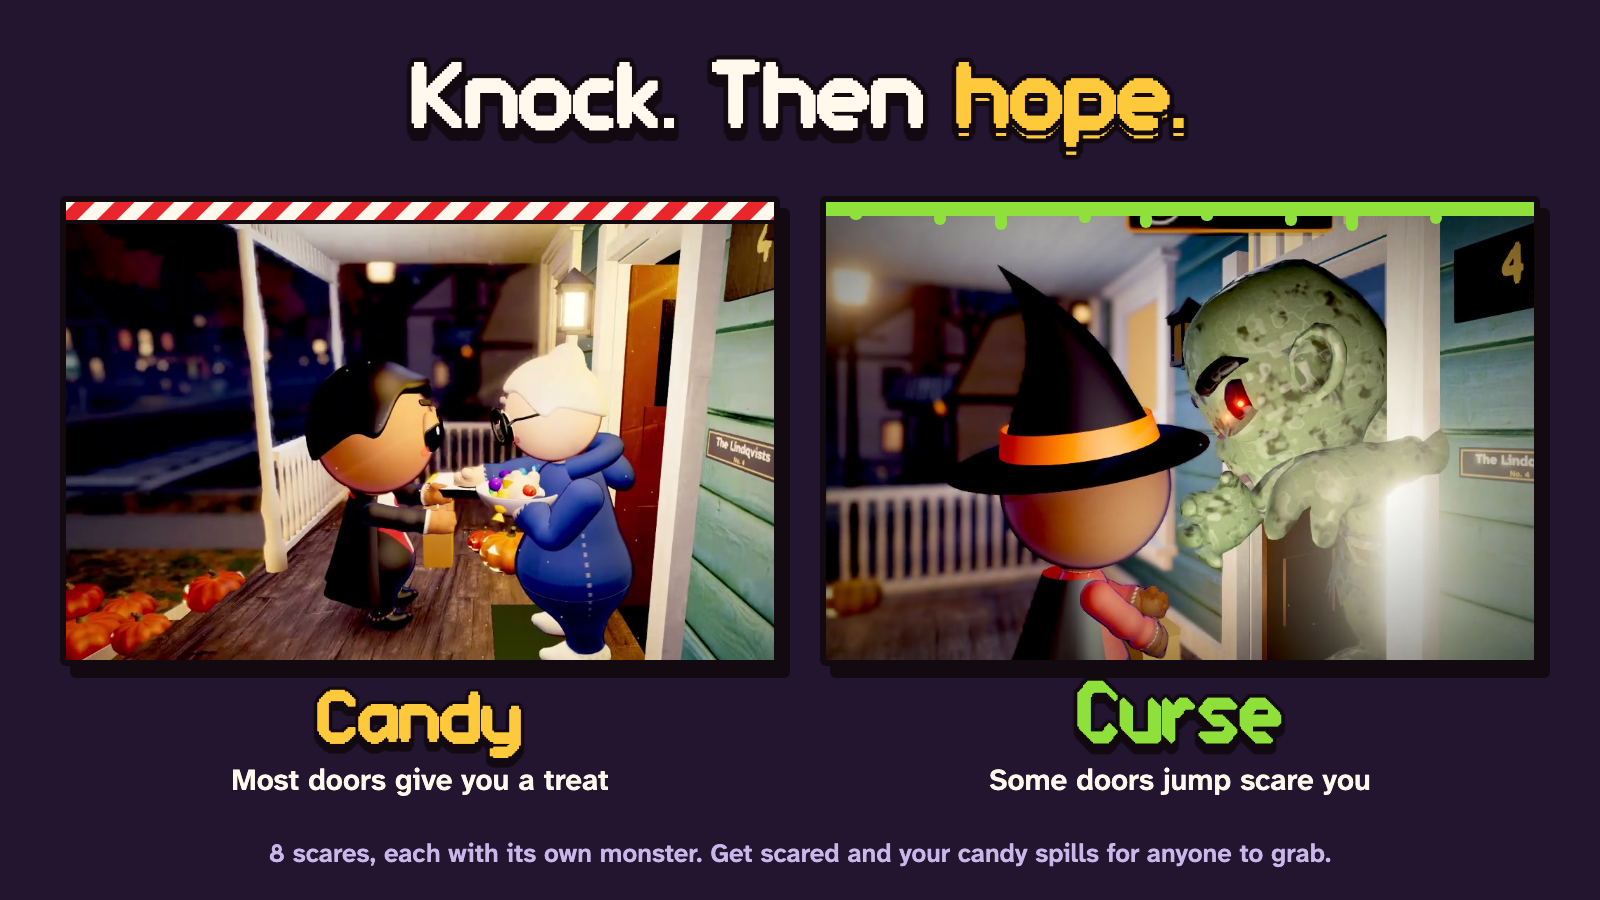
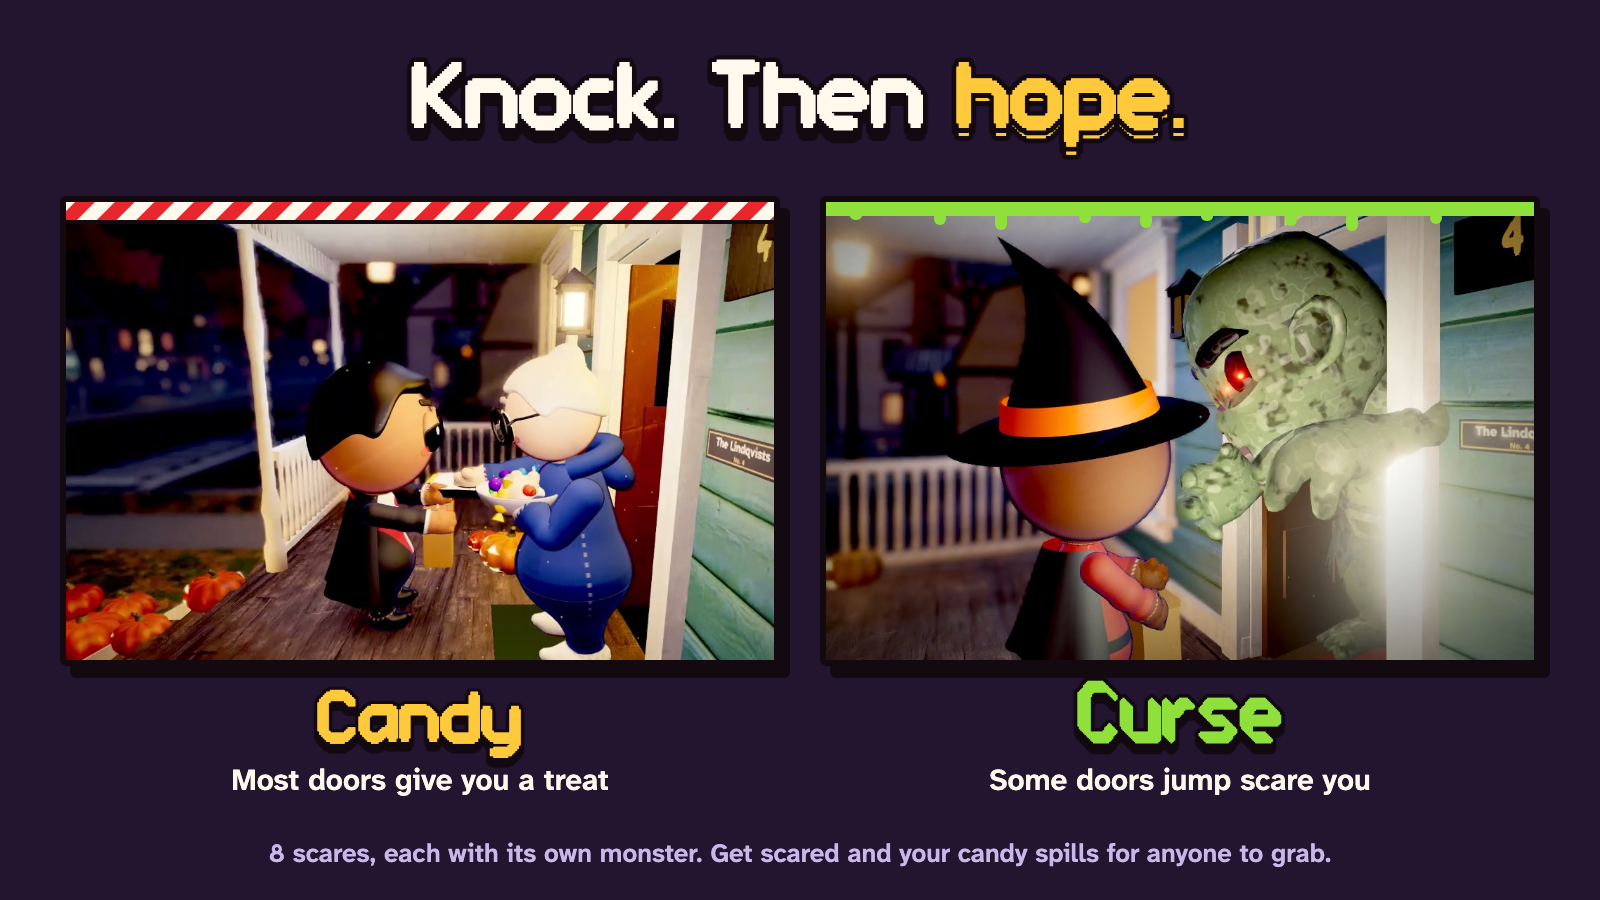
fix: crop the coin plate off the scare still

Changed region(s): [[0.5, 0.2178, 0.9688, 0.7467], [0.9062, 0.6222, 0.9375, 0.6533]]

diff --git a/kits/candy-or-curse/art/02-knock.html b/kits/candy-or-curse/art/02-knock.html
@@ -11,4 +11,4 @@ image.px{image-rendering:pixelated}
 </style></head><body><svg width="1600" height="900" viewBox="0 0 1600 900"><defs>
 <pattern id="cane" width="28" height="28" patternUnits="userSpaceOnUse" patternTransform="rotate(45)">
 <rect width="28" height="28" fill="#fff8ec"/><rect width="14" height="28" fill="#e8262b"/></pattern>
-</defs><rect width="1600" height="900" fill="#23142f"/><text class="tf o" x="800.0" y="136.28" font-size="92" text-anchor="middle" fill="#120a10" stroke-width="10.12">Knock. Then <tspan fill="#ffc93c">hope.</tspan></text><text class="tf o" x="800.0" y="128" font-size="92" text-anchor="middle" fill="#fff8ec" stroke-width="10.12">Knock. Then <tspan fill="#ffc93c">hope.</tspan></text><rect x="70" y="208" width="720" height="470" rx="6" fill="#120a10"/><rect x="60" y="196" width="720" height="470" rx="6" fill="#120a10"/><rect x="66" y="202" width="708" height="458" rx="3" fill="#5a3020"/><rect x="66" y="202" width="708" height="18" fill="url(#cane)"/><rect x="66" y="220" width="708" height="4" fill="#120a10"/><clipPath id="c1"><rect x="66" y="224" width="708" height="436"/></clipPath><image href="treat.jpg" x="26" y="216" width="900" height="506" clip-path="url(#c1)" preserveAspectRatio="none"/><rect x="830" y="208" width="720" height="470" rx="6" fill="#120a10"/><rect x="820" y="196" width="720" height="470" rx="6" fill="#120a10"/><rect x="826" y="202" width="708" height="458" rx="3" fill="#2e1b40"/><rect x="826" y="202" width="708" height="14" fill="#8fe03a"/><rect x="850" y="212" width="12" height="14" rx="6" fill="#8fe03a"/><rect x="934" y="212" width="12" height="17" rx="6" fill="#8fe03a"/><rect x="995" y="212" width="12" height="20" rx="6" fill="#8fe03a"/><rect x="1079" y="212" width="12" height="23" rx="6" fill="#8fe03a"/><rect x="1140" y="212" width="12" height="26" rx="6" fill="#8fe03a"/><rect x="1201" y="212" width="12" height="29" rx="6" fill="#8fe03a"/><rect x="1285" y="212" width="12" height="32" rx="6" fill="#8fe03a"/><rect x="1346" y="212" width="12" height="35" rx="6" fill="#8fe03a"/><rect x="1430" y="212" width="12" height="38" rx="6" fill="#8fe03a"/><clipPath id="c2"><rect x="826" y="216" width="708" height="444"/></clipPath><image href="scare.jpg" x="736" y="182" width="900" height="506" clip-path="url(#c2)" preserveAspectRatio="none"/><rect x="826" y="202" width="708" height="14" fill="#8fe03a"/><rect x="850" y="212" width="12" height="8" rx="6" fill="#8fe03a"/><rect x="934" y="212" width="12" height="13" rx="6" fill="#8fe03a"/><rect x="995" y="212" width="12" height="18" rx="6" fill="#8fe03a"/><rect x="1079" y="212" width="12" height="11" rx="6" fill="#8fe03a"/><rect x="1140" y="212" width="12" height="16" rx="6" fill="#8fe03a"/><rect x="1201" y="212" width="12" height="9" rx="6" fill="#8fe03a"/><rect x="1285" y="212" width="12" height="14" rx="6" fill="#8fe03a"/><rect x="1346" y="212" width="12" height="19" rx="6" fill="#8fe03a"/><rect x="1430" y="212" width="12" height="12" rx="6" fill="#8fe03a"/><text class="tf o" x="420" y="748.3" font-size="70" text-anchor="middle" fill="#120a10" stroke-width="7.7">Candy</text><text class="tf o" x="420" y="742" font-size="70" text-anchor="middle" fill="#ffc93c" stroke-width="7.7">Candy</text><text class="tx" x="420" y="790" font-size="30" font-weight="600" text-anchor="middle" fill="#fff8ec">Most doors give you a treat</text><text class="cr o" x="1180" y="748.84" font-size="76" text-anchor="middle" fill="#120a10" stroke-width="8.36">Curse</text><text class="cr o" x="1180" y="742" font-size="76" text-anchor="middle" fill="#8fe03a" stroke-width="8.36">Curse</text><text class="tx" x="1180" y="790" font-size="30" font-weight="600" text-anchor="middle" fill="#fff8ec">Some doors jump scare you</text><text class="tx" x="800" y="862" font-size="26" font-weight="600" text-anchor="middle" fill="#cbb6ea">8 scares, each with its own monster. Get scared and your candy spills for anyone to grab.</text></svg></body></html>
+</defs><rect width="1600" height="900" fill="#23142f"/><text class="tf o" x="800.0" y="136.28" font-size="92" text-anchor="middle" fill="#120a10" stroke-width="10.12">Knock. Then <tspan fill="#ffc93c">hope.</tspan></text><text class="tf o" x="800.0" y="128" font-size="92" text-anchor="middle" fill="#fff8ec" stroke-width="10.12">Knock. Then <tspan fill="#ffc93c">hope.</tspan></text><rect x="70" y="208" width="720" height="470" rx="6" fill="#120a10"/><rect x="60" y="196" width="720" height="470" rx="6" fill="#120a10"/><rect x="66" y="202" width="708" height="458" rx="3" fill="#5a3020"/><rect x="66" y="202" width="708" height="18" fill="url(#cane)"/><rect x="66" y="220" width="708" height="4" fill="#120a10"/><clipPath id="c1"><rect x="66" y="224" width="708" height="436"/></clipPath><image href="treat.jpg" x="26" y="216" width="900" height="506" clip-path="url(#c1)" preserveAspectRatio="none"/><rect x="830" y="208" width="720" height="470" rx="6" fill="#120a10"/><rect x="820" y="196" width="720" height="470" rx="6" fill="#120a10"/><rect x="826" y="202" width="708" height="458" rx="3" fill="#2e1b40"/><rect x="826" y="202" width="708" height="14" fill="#8fe03a"/><rect x="850" y="212" width="12" height="14" rx="6" fill="#8fe03a"/><rect x="934" y="212" width="12" height="17" rx="6" fill="#8fe03a"/><rect x="995" y="212" width="12" height="20" rx="6" fill="#8fe03a"/><rect x="1079" y="212" width="12" height="23" rx="6" fill="#8fe03a"/><rect x="1140" y="212" width="12" height="26" rx="6" fill="#8fe03a"/><rect x="1201" y="212" width="12" height="29" rx="6" fill="#8fe03a"/><rect x="1285" y="212" width="12" height="32" rx="6" fill="#8fe03a"/><rect x="1346" y="212" width="12" height="35" rx="6" fill="#8fe03a"/><rect x="1430" y="212" width="12" height="38" rx="6" fill="#8fe03a"/><clipPath id="c2"><rect x="826" y="216" width="708" height="444"/></clipPath><image href="scare.jpg" x="736" y="154" width="900" height="506" clip-path="url(#c2)" preserveAspectRatio="none"/><rect x="826" y="202" width="708" height="14" fill="#8fe03a"/><rect x="850" y="212" width="12" height="8" rx="6" fill="#8fe03a"/><rect x="934" y="212" width="12" height="13" rx="6" fill="#8fe03a"/><rect x="995" y="212" width="12" height="18" rx="6" fill="#8fe03a"/><rect x="1079" y="212" width="12" height="11" rx="6" fill="#8fe03a"/><rect x="1140" y="212" width="12" height="16" rx="6" fill="#8fe03a"/><rect x="1201" y="212" width="12" height="9" rx="6" fill="#8fe03a"/><rect x="1285" y="212" width="12" height="14" rx="6" fill="#8fe03a"/><rect x="1346" y="212" width="12" height="19" rx="6" fill="#8fe03a"/><rect x="1430" y="212" width="12" height="12" rx="6" fill="#8fe03a"/><text class="tf o" x="420" y="748.3" font-size="70" text-anchor="middle" fill="#120a10" stroke-width="7.7">Candy</text><text class="tf o" x="420" y="742" font-size="70" text-anchor="middle" fill="#ffc93c" stroke-width="7.7">Candy</text><text class="tx" x="420" y="790" font-size="30" font-weight="600" text-anchor="middle" fill="#fff8ec">Most doors give you a treat</text><text class="cr o" x="1180" y="748.84" font-size="76" text-anchor="middle" fill="#120a10" stroke-width="8.36">Curse</text><text class="cr o" x="1180" y="742" font-size="76" text-anchor="middle" fill="#8fe03a" stroke-width="8.36">Curse</text><text class="tx" x="1180" y="790" font-size="30" font-weight="600" text-anchor="middle" fill="#fff8ec">Some doors jump scare you</text><text class="tx" x="800" y="862" font-size="26" font-weight="600" text-anchor="middle" fill="#cbb6ea">8 scares, each with its own monster. Get scared and your candy spills for anyone to grab.</text></svg></body></html>

diff --git a/kits/candy-or-curse/art/gen.py b/kits/candy-or-curse/art/gen.py
@@ -124,7 +124,7 @@ page('01-cover.html', 2000, 800, b)
 b = [headline(1600, 'Knock. Then ', 'hope.')]
 # Frames from the game's own clips, cropped above the clip's corner plate.
 b.append(still('treat.jpg', 60, 196, 720, 470, 900, 506, 40, 8, 'candy'))
-b.append(still('scare.jpg', 820, 196, 720, 470, 900, 506, 90, 34, 'curse'))
+b.append(still('scare.jpg', 820, 196, 720, 470, 900, 506, 90, 62, 'curse'))
 b.append(text(420, 742, 'Candy', 70, GOLD))
 b.append(plain(420, 790, 'Most doors give you a treat', 30, PEPPER))
 b.append(text(1180, 742, 'Curse', 76, TOXIC, 'cr'))
